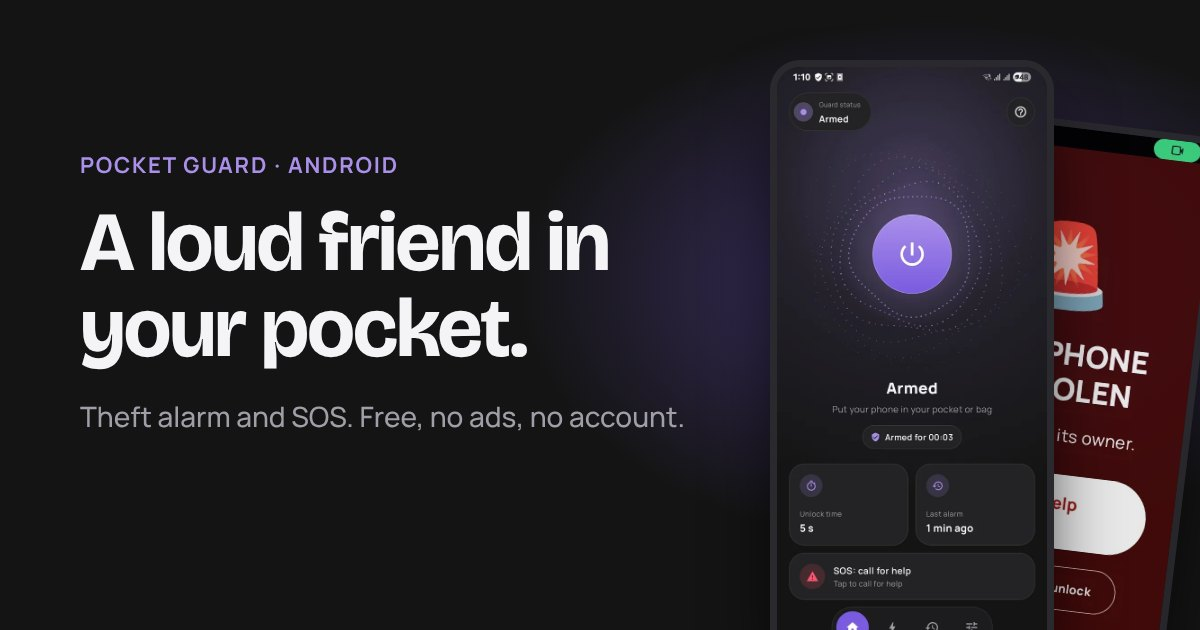
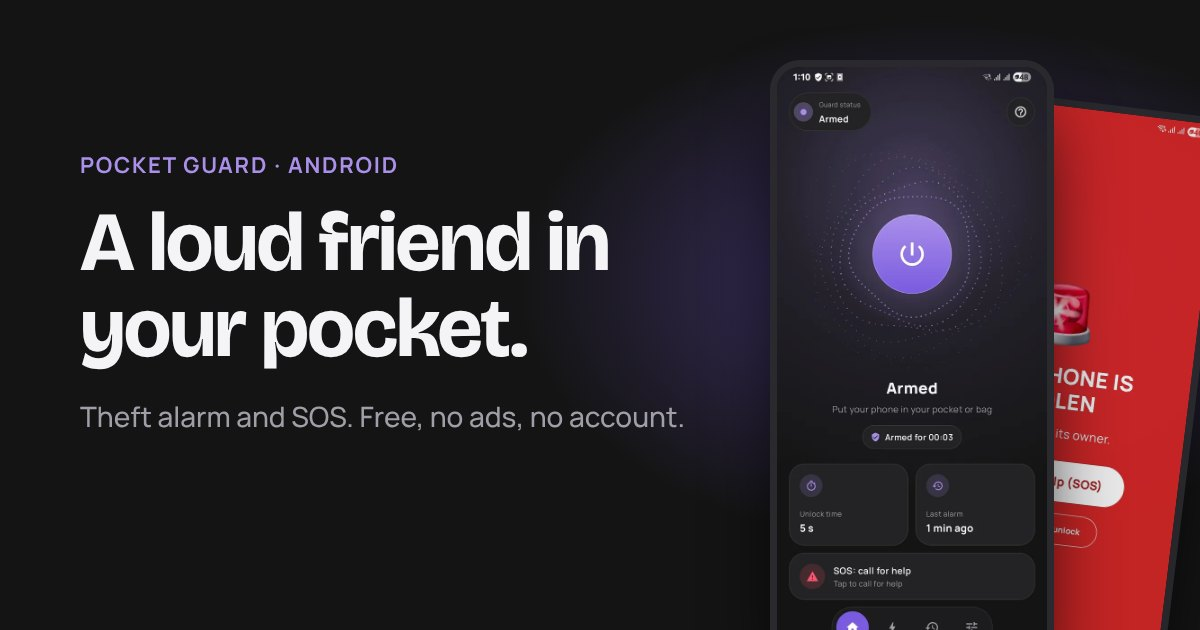
Website: real phone screenshots for the theft alarm, Triggers and History
The emulator screenshots were small and cut off under the tab bar; these are from a real phone.
The share image uses the new alarm screen, and the version fallback text says v2.3.0.

Claude-Session: https://claude.ai/code/session_012YqNaU8tzJ6n74q3dmo18m

Changed region(s): [[0.8633, 0.1508, 1.0, 1.0]]

diff --git a/site/index.html b/site/index.html
@@ -59,12 +59,12 @@
              with Google's official "Get it on Google Play" badge image, and delete `hidden`. -->
         <a class="play-badge" href="https://play.google.com/store/apps/details?id=com.taiyeb.pocketguard" hidden data-play>Get it on Google Play</a>
       </div>
-      <p class="meta"><span data-version>v2.2.2</span> · Android 8+ · <span data-size>about 11 MB</span> · <a href="#install">How to install</a></p>
+      <p class="meta"><span data-version>v2.3.0</span> · Android 8+ · <span data-size>about 8 MB</span> · <a href="#install">How to install</a></p>
     </div>
     <div class="hero-art" aria-hidden="false">
       <div class="ring" aria-hidden="true"></div>
       <figure class="phone phone-back">
-        <img class="tall" src="img/9-alarm.webp" width="320" height="640" alt="The alarm screen: THIS PHONE IS STOLEN, return it to its owner, with an I need help (SOS) button.">
+        <img class="tall" src="img/alarm.webp" width="600" height="1333" alt="The theft alarm screen: a red siren, THIS PHONE IS STOLEN, return it to its owner, with an I need help (SOS) button and I'm the owner, unlock.">
       </figure>
       <figure class="phone phone-front">
         <img class="tall" src="img/home-armed.webp" width="600" height="1333" alt="Pocket Guard's Home screen, armed: a purple power button inside a ring of dots, Armed for 00:03, the unlock time and last alarm, and an SOS: call for help card.">
@@ -183,10 +183,10 @@
     </div>
     <div class="story-art duo">
       <figure class="phone">
-        <img src="img/5-triggers.webp" width="320" height="640" loading="lazy" alt="The Triggers screen: taken out of pocket or bag (always on) and face-down on a table, with their switches.">
+        <img class="tall" src="img/triggers.webp" width="600" height="1333" loading="lazy" alt="The Triggers screen: taken out of pocket or bag (always on), face-down on a table, SOS by tapping volume up 4 times, airplane mode, charger unplug and earbuds disconnect alarms, each with a switch.">
       </figure>
       <figure class="phone phone-lower">
-        <img src="img/6-history.webp" width="320" height="640" loading="lazy" alt="Theft history: past alarms such as phone restarted during an alarm, airplane mode turned on, and SOS: you called for help.">
+        <img class="tall" src="img/history.webp" width="600" height="1333" loading="lazy" alt="Theft history: taken out of pocket, with two intruder photos; SOS: you called for help, with a recording; each with Save to phone and Share.">
       </figure>
     </div>
   </div>
@@ -287,7 +287,7 @@
       <svg viewBox="0 0 24 24" aria-hidden="true"><path d="M12 3v12m0 0-5-5m5 5 5-5M5 20h14" fill="none" stroke="currentColor" stroke-width="2.2" stroke-linecap="round" stroke-linejoin="round"/></svg>
       <span>Download for Android</span>
     </a>
-    <p class="meta"><span data-version>v2.2.2</span> · Android 8+ · <span data-size>about 11 MB</span></p>
+    <p class="meta"><span data-version>v2.3.0</span> · Android 8+ · <span data-size>about 8 MB</span></p>
   </div>
 </section>
 
